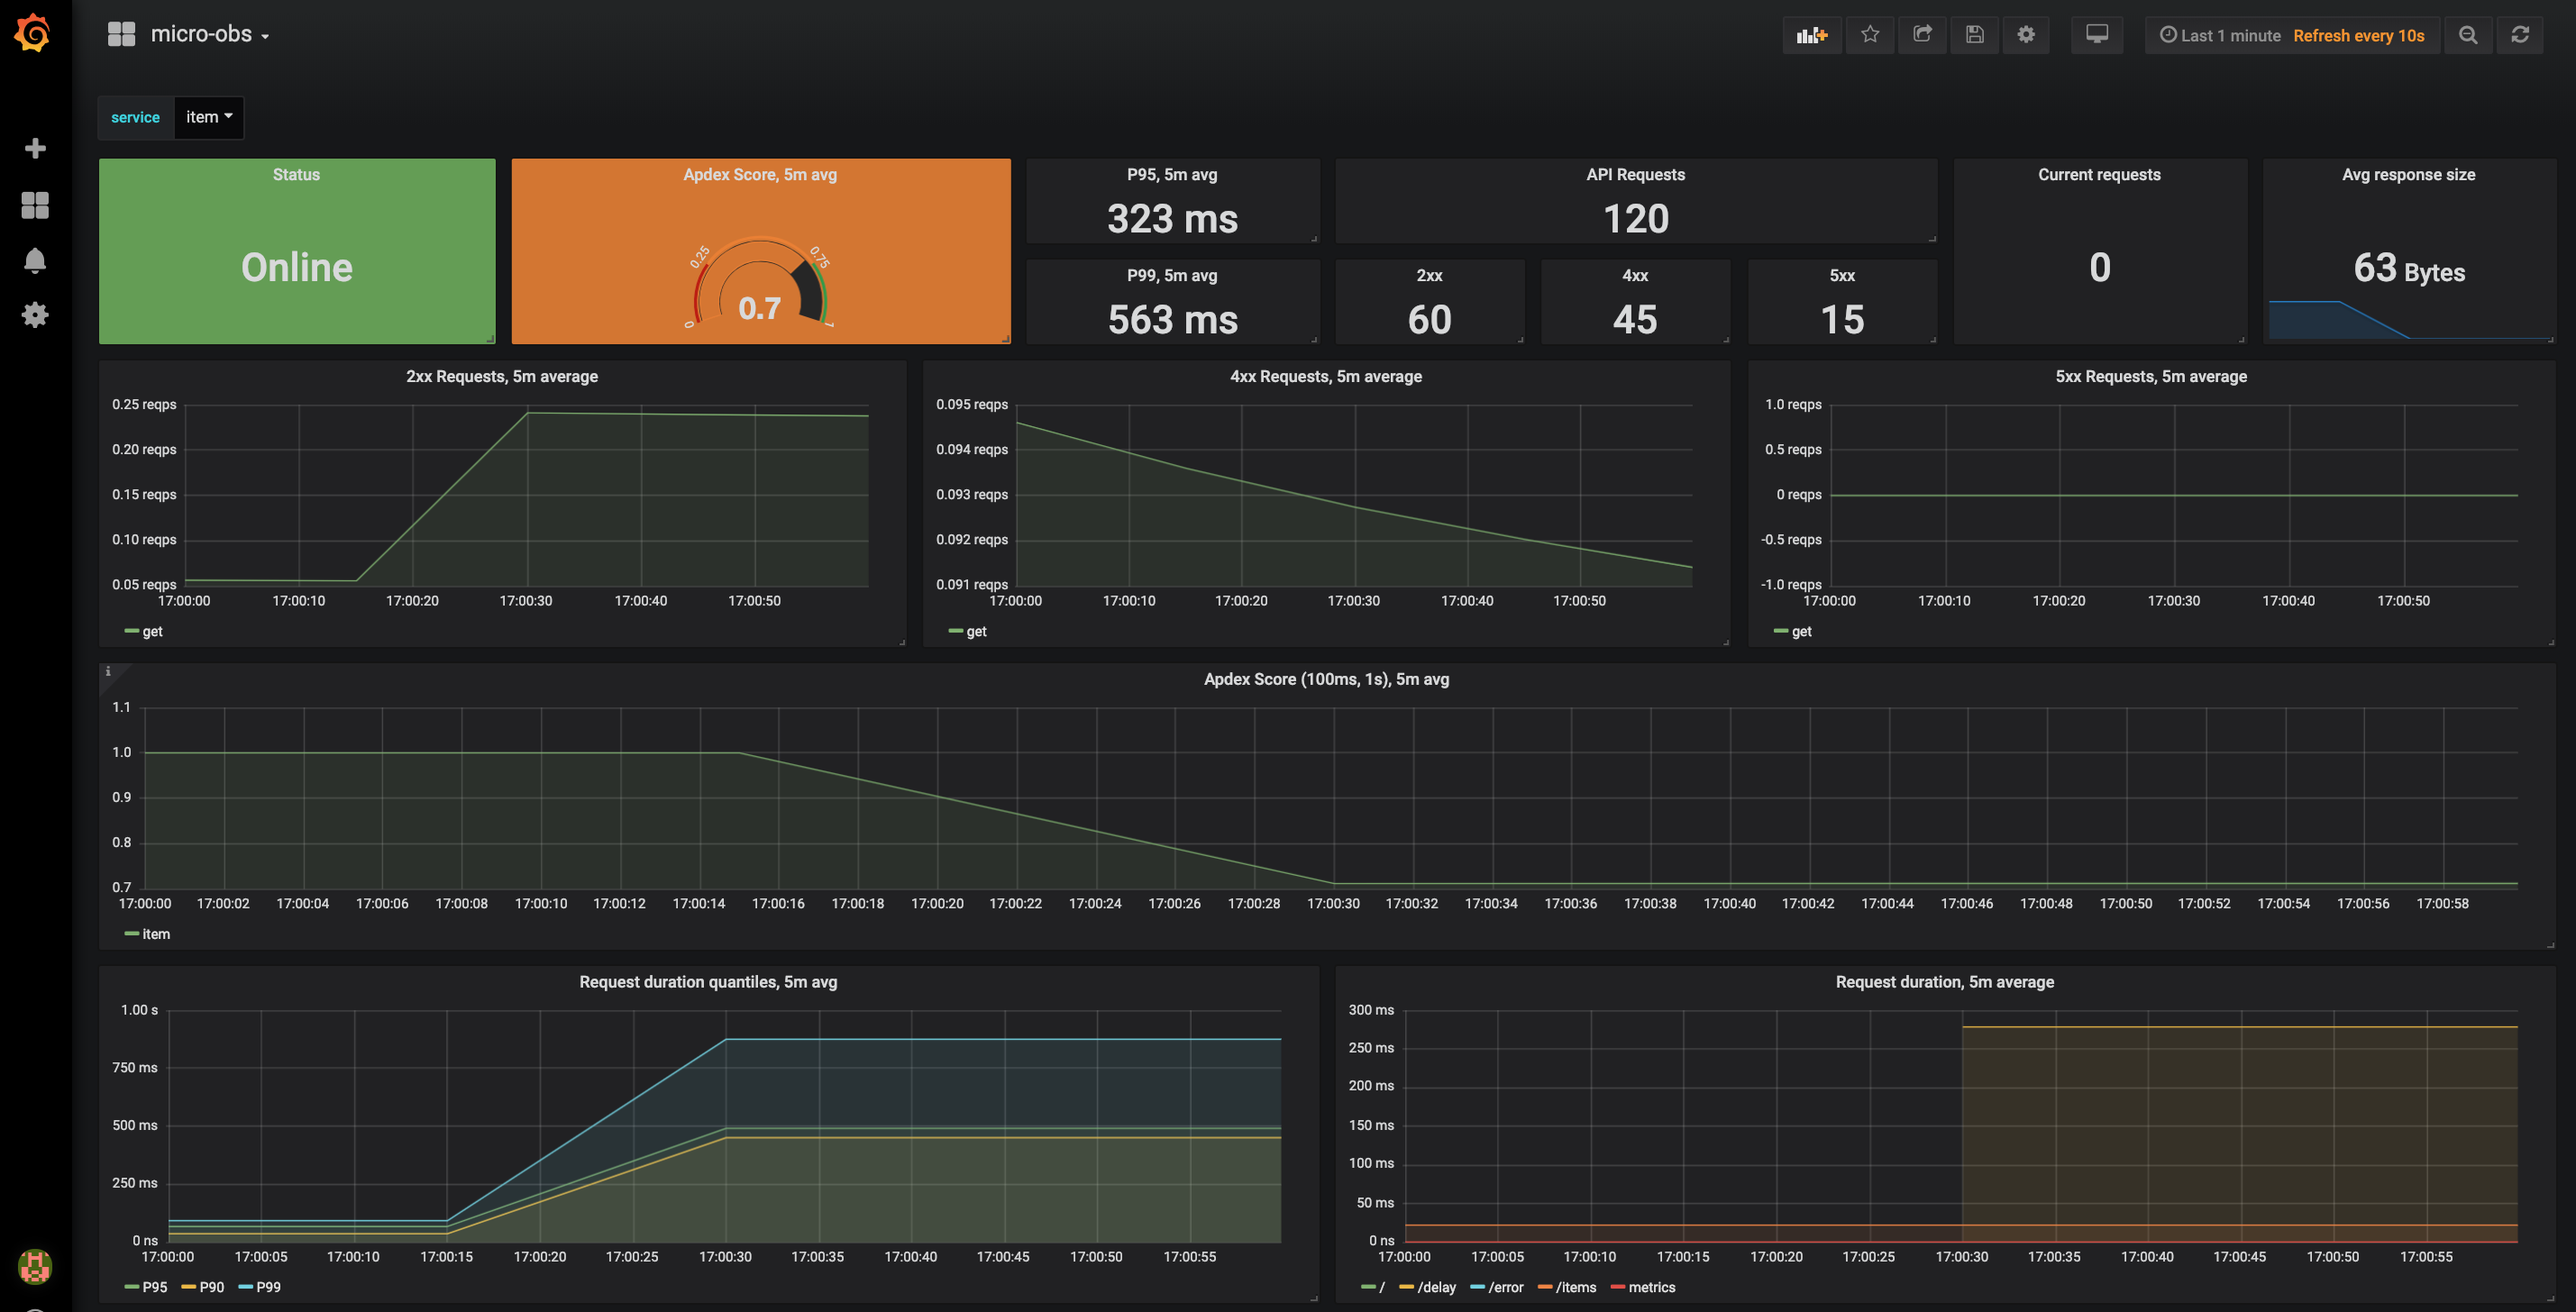
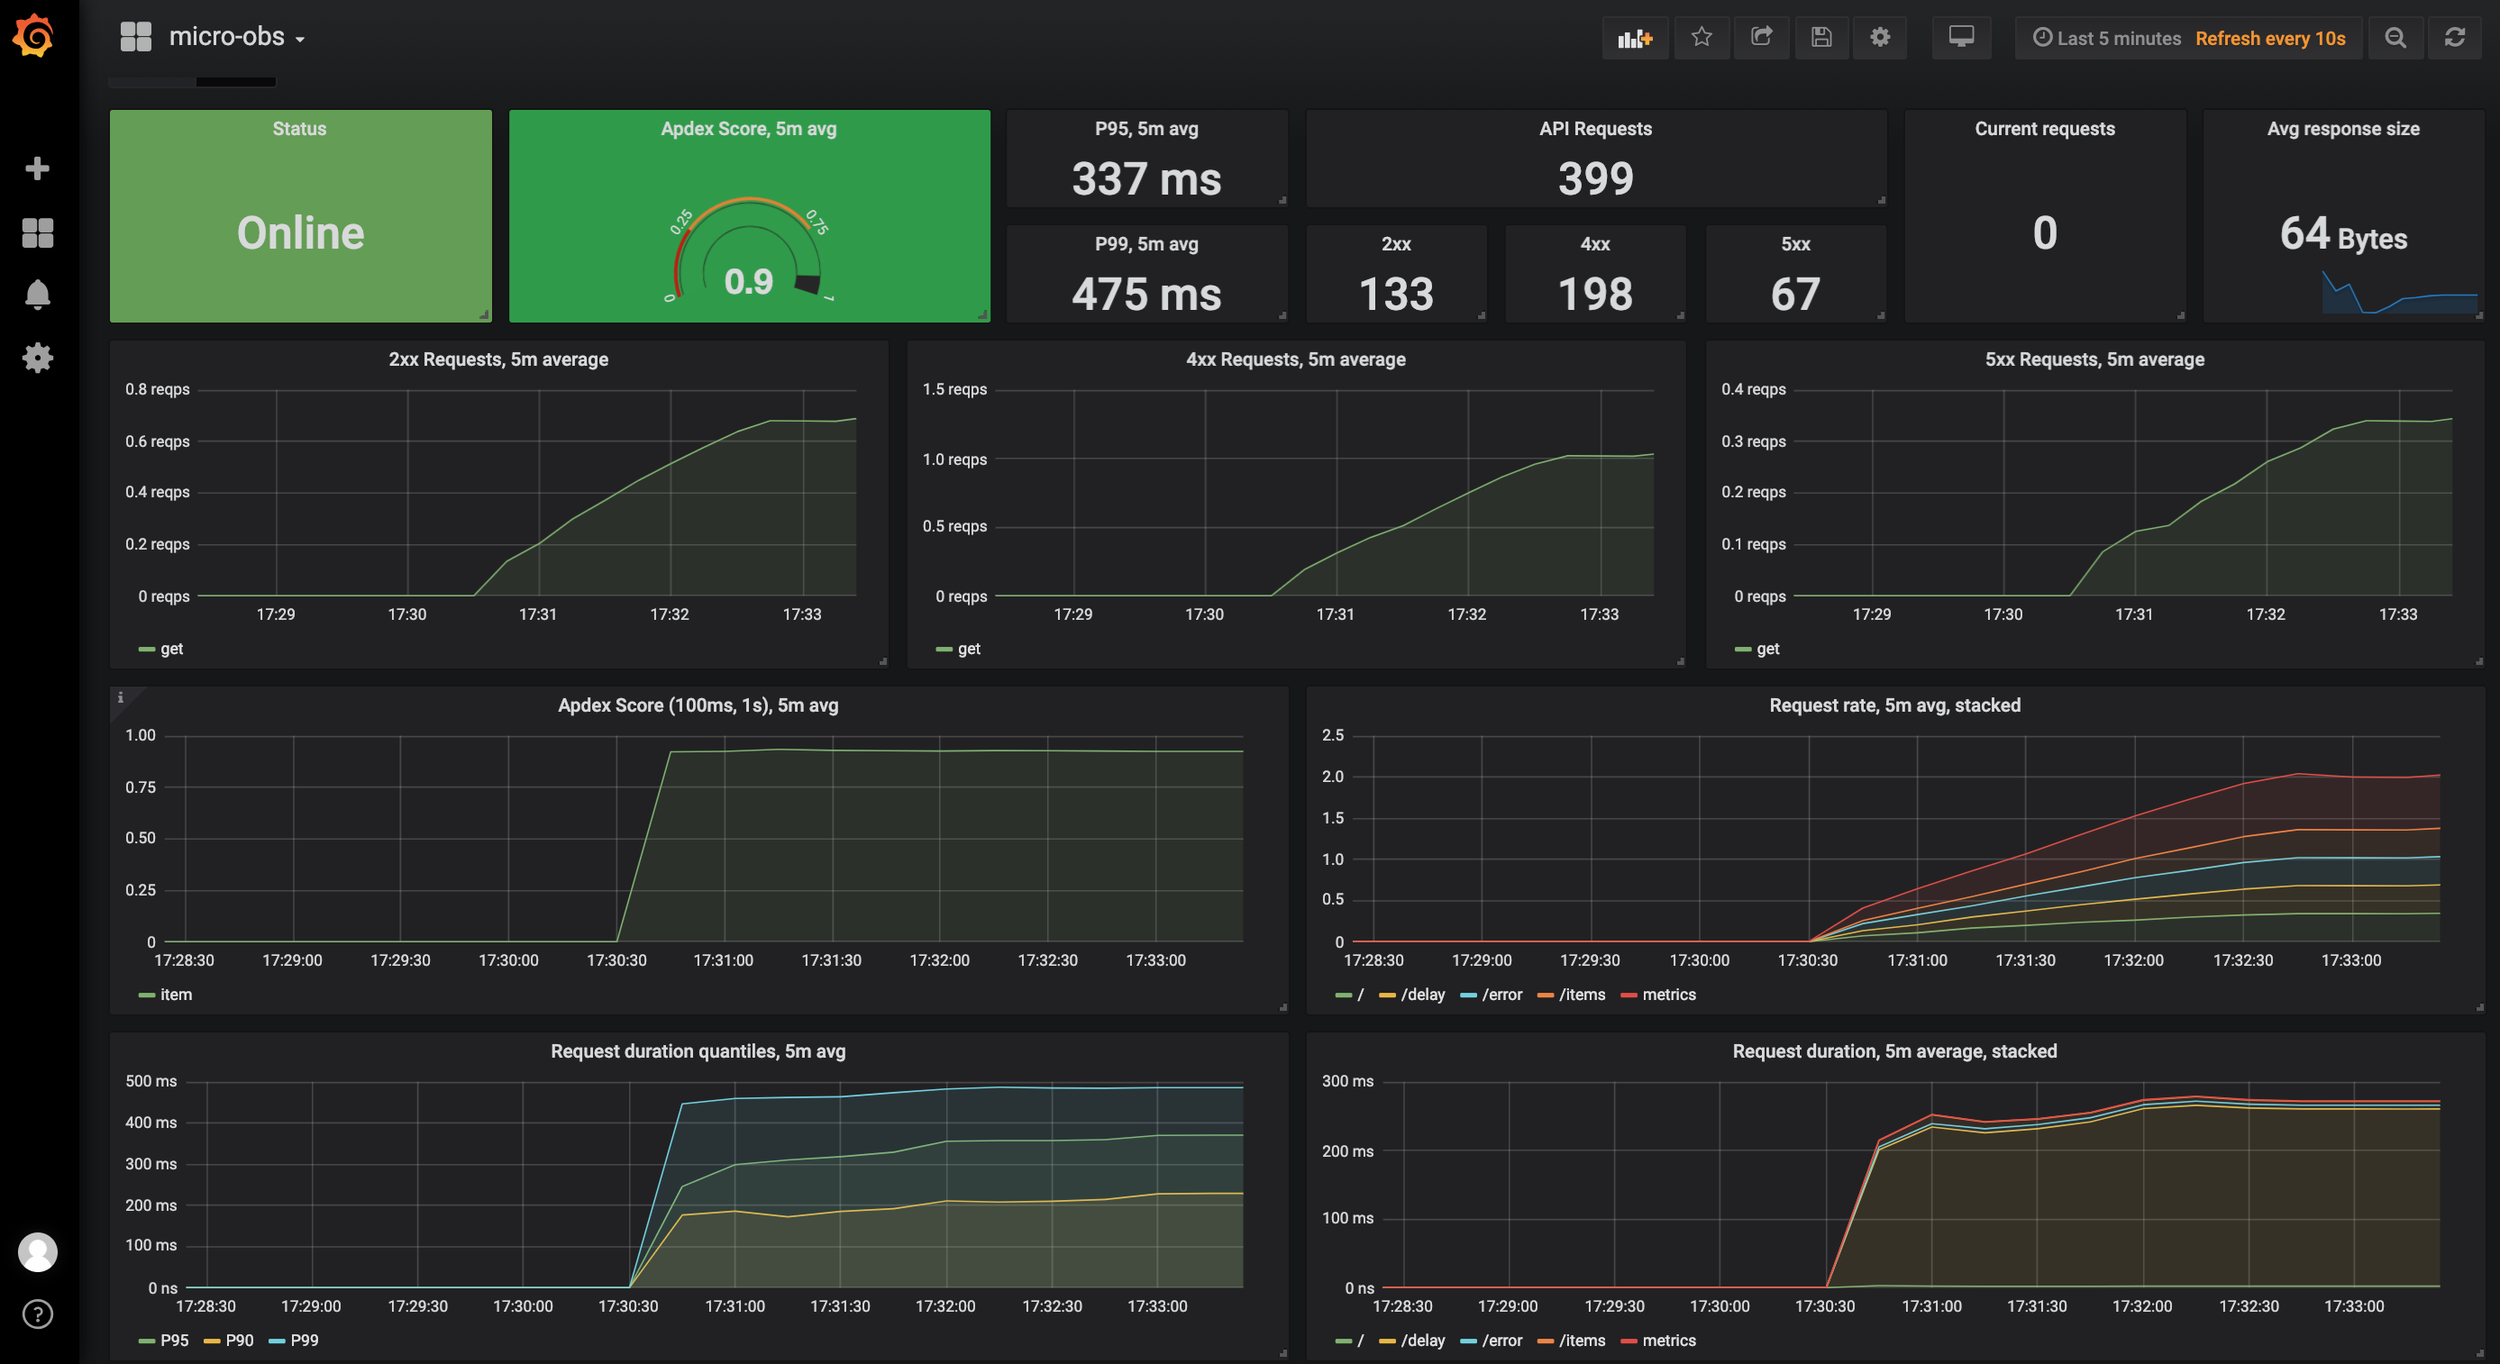
worker pool for dummy requests, better dashboard, elk section in README

diff --git a/cmd/dummy/requests.go b/cmd/dummy/requests.go
@@ -2,6 +2,7 @@ package main
 
 import (
 	"fmt"
+	"math/rand"
 	"net/http"
 	"time"
 
@@ -24,69 +25,99 @@ var (
 
 			return nil
 		},
-		Run: sendRequests,
+		Run: sendRequest,
 	}
 	numReq  = 15
-	concReq = 5
+	concReq = 2
 	wait    = 500
 )
 
 func init() {
-	requestsCmd.Flags().IntVarP(&numReq, "number", "n", numReq, "number of requests to sent (0 for unlimited)")
+	requestsCmd.Flags().IntVarP(&numReq, "number", "n", numReq, "number of requests to sent")
 	requestsCmd.Flags().IntVarP(&concReq, "concurrency", "c", concReq, "number of requests to be sent concurrently")
 	requestsCmd.Flags().IntVarP(&wait, "wait", "w", wait, "time to wait between requests in ms")
 }
 
-// TODO: worker pattern
-func sendRequests(cmd *cobra.Command, args []string) {
-	var url string
+func buildURLs(addr string, handlers ...string) []string {
+	urls := []string{}
+
+	// Total requests = -n * (number of handlers)
+	for _, handler := range handlers {
+		for j := 0; j < numReq; j++ {
+			urls = append(urls, fmt.Sprintf("%s%s", addr, handler))
+		}
+	}
+
+	// Shuffle slice so requests will be evenly distributed
+	rand.Shuffle(len(urls), func(i, j int) {
+		urls[i], urls[j] = urls[j], urls[i]
+	})
+	return urls
+}
+
+func sendRequest(cmd *cobra.Command, args []string) {
 	switch args[0] {
 	case "item":
-		for _, handler := range args[1:] {
-			url = fmt.Sprintf("%s%s", itemAddr, handler)
-			concReqs(url)
+		handlers := buildURLs(itemAddr, args[1:]...)
+		done := distributeWork(handlers...)
+		for i := 0; i < len(handlers); i++ {
+			<-done
 		}
+
 	case "order":
-		for _, handler := range args[1:] {
-			url = fmt.Sprintf("%s%s", orderAddr, handler)
-			concReqs(url)
+		handlers := buildURLs(orderAddr, args[1:]...)
+		done := distributeWork(handlers...)
+		for i := 0; i < len(handlers); i++ {
+			<-done
 		}
+
 	case "all":
-		for _, handler := range args[1:] {
-			url = fmt.Sprintf("%s%s", itemAddr, handler)
-			concReqs(url)
+		handlers := []string{}
+		handlers = append(handlers, buildURLs(itemAddr, args[1:]...)...)
+		handlers = append(handlers, buildURLs(orderAddr, args[1:]...)...)
+		rand.Shuffle(len(handlers), func(i, j int) {
+			handlers[i], handlers[j] = handlers[j], handlers[i]
+		})
 
-			url = fmt.Sprintf("%s%s", orderAddr, handler)
-			concReqs(url)
+		done := distributeWork(handlers...)
+		for j := 0; j < numReq*len(handlers); j++ {
+			<-done
 		}
 	}
 }
 
-func concReqs(url string) {
-	var done chan bool
-	limit := make(chan bool, concReq)
+func distributeWork(urls ...string) <-chan bool {
+	jobQ := make(chan string, numReq)
+	numJobs := numReq * len(urls)
+	jobsDone := make(chan bool, numJobs)
 
-	if numReq == 0 {
-		for {
-			done = make(chan bool)
-			limit <- true
-			go req(url, done, limit)
-		}
+	// Spawn -c workers
+	for w := 0; w < concReq; w++ {
+		go workerRequest(w, jobQ, jobsDone)
 	}
 
-	done = make(chan bool, numReq)
-	for i := 0; i < numReq; i++ {
-		limit <- true
-		go req(url, done, limit)
+	// Send requests to jobQ channel
+	for _, url := range urls {
+		jobQ <- url
 	}
-	<-done
+
+	// Work assigned, close jobQ channel
+	close(jobQ)
+
+	return jobsDone
 }
 
-func req(url string, done chan bool, limit chan bool) {
-	_, err := http.Get(url)
-	errExit(err)
+func workerRequest(id int, jobs <-chan string, jobsDone chan<- bool) {
+	// Grab jobs from channel and perform request
+	for url := range jobs {
+		start := time.Now()
+		vl(fmt.Sprintf("Worker %d -> %s\n", id, url))
 
-	time.Sleep(time.Duration(wait) * time.Millisecond)
-	<-limit
-	done <- true
+		_, err := http.Get(url)
+		errExit(err)
+		time.Sleep(time.Duration(wait) * time.Millisecond)
+
+		vl(fmt.Sprintf("Worker %d <- Work to %s completed after %v\n", id, url, time.Since(start)))
+		jobsDone <- true
+	}
 }

diff --git a/cmd/dummy/root.go b/cmd/dummy/root.go
@@ -16,6 +16,7 @@ var (
 	allowedTargets = map[string]bool{"item": true, "order": true, "all": true}
 	itemAddr       = "http://localhost:8080"
 	orderAddr      = "http://localhost:8090"
+	verbose        bool
 )
 
 func init() {
@@ -24,6 +25,7 @@ func init() {
 
 	rootCmd.PersistentFlags().StringVarP(&itemAddr, "item-addr", "i", itemAddr, "address of the item service")
 	rootCmd.PersistentFlags().StringVarP(&orderAddr, "order-addr", "o", orderAddr, "address of the order service")
+	rootCmd.PersistentFlags().BoolVarP(&verbose, "verbose", "v", false, "verbose output")
 }
 
 // Execute runs the cobra rootCmd.
@@ -38,5 +40,12 @@ func errExit(err error) {
 	if err != nil {
 		fmt.Println(err)
 		os.Exit(1)
+	}
+}
+
+// Verbose logging
+func vl(str string) {
+	if verbose {
+		fmt.Print(str)
 	}
 }

diff --git a/cmd/dummy/data.go b/cmd/dummy/data.go
@@ -70,7 +70,7 @@ func defaultData(method, url string, data []string) {
 		}
 		req.Header.Add("Content-Type", "application/JSON; charset=UTF-8")
 
-		fmt.Printf("%s %s\n%s\n", method, url, js)
+		vl(fmt.Sprintf("%s %s\n%s\n", method, url, js))
 
 		c := &http.Client{}
 		res, err := c.Do(req)

diff --git a/README.md b/README.md
@@ -193,8 +193,7 @@ After creating the dummy data, those transactions can be found in the Jaeger Que
 Send some dummy requests:
 
 ```
-./bin/dummy requests all / /aksdasd /items /orders /delay /error -n 15
-./bin/dummy requests all /delay -n 50
+./bin/dummy requests all / /aksdasd /items /orders /delay /error -n 100 -c 5 
 ```
 
 Start Grafana and upload the `deploy/docker/dashboards/micro-obs.json` dashboard:
@@ -203,7 +202,9 @@ Start Grafana and upload the `deploy/docker/dashboards/micro-obs.json` dashboard
 
 #### ELK
 
-TODO
+After sending some requests, logs can be queried via Kibana running on http://localhost:5601:
+
+![Kibana micro-obs error query](static/kibana1.png)
 
 ### Kubernetes
 
@@ -237,7 +238,7 @@ After creating the dummy data, those transactions can be found in the Jaeger Que
 
 #### Prometheus
 
-Both the Kubernetes' internal components as well as the `micro-obs` application is being monitored by Prometheus. Some pre-installed Dashboards can be found in Grafana via http://localhost:30300 (default login is admin:admin):
+Both the Kubernetes' internal components as well as the `micro-obs` application (TODO) is being monitored by Prometheus. Some pre-installed Dashboards can be found in Grafana via http://localhost:30300 (default login is admin:admin):
 
 ![Grafana Kubernetes dashboard](static/grafana1.PNG)
 
